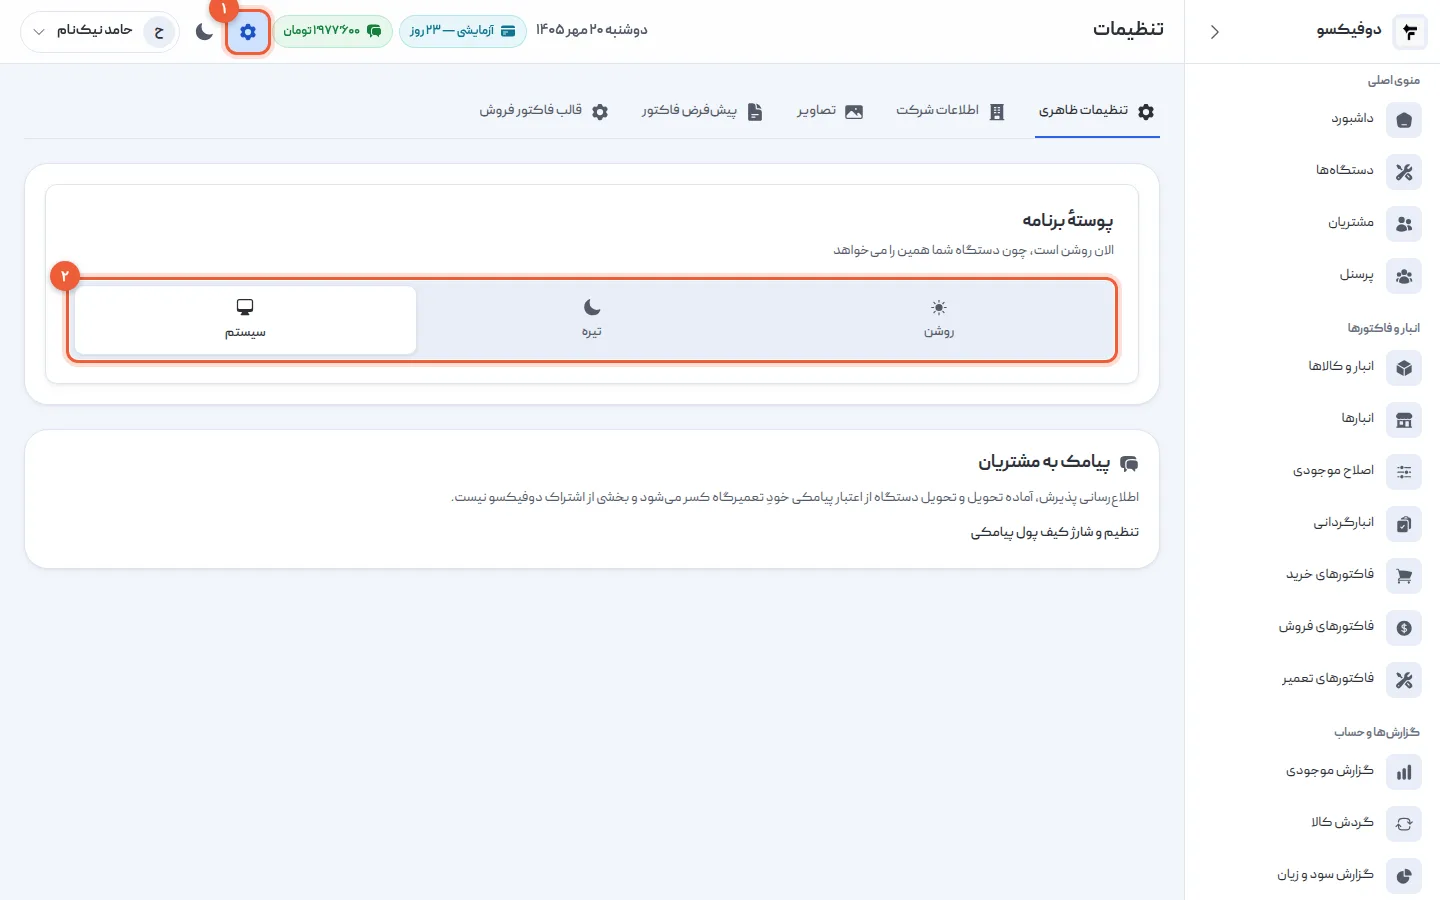
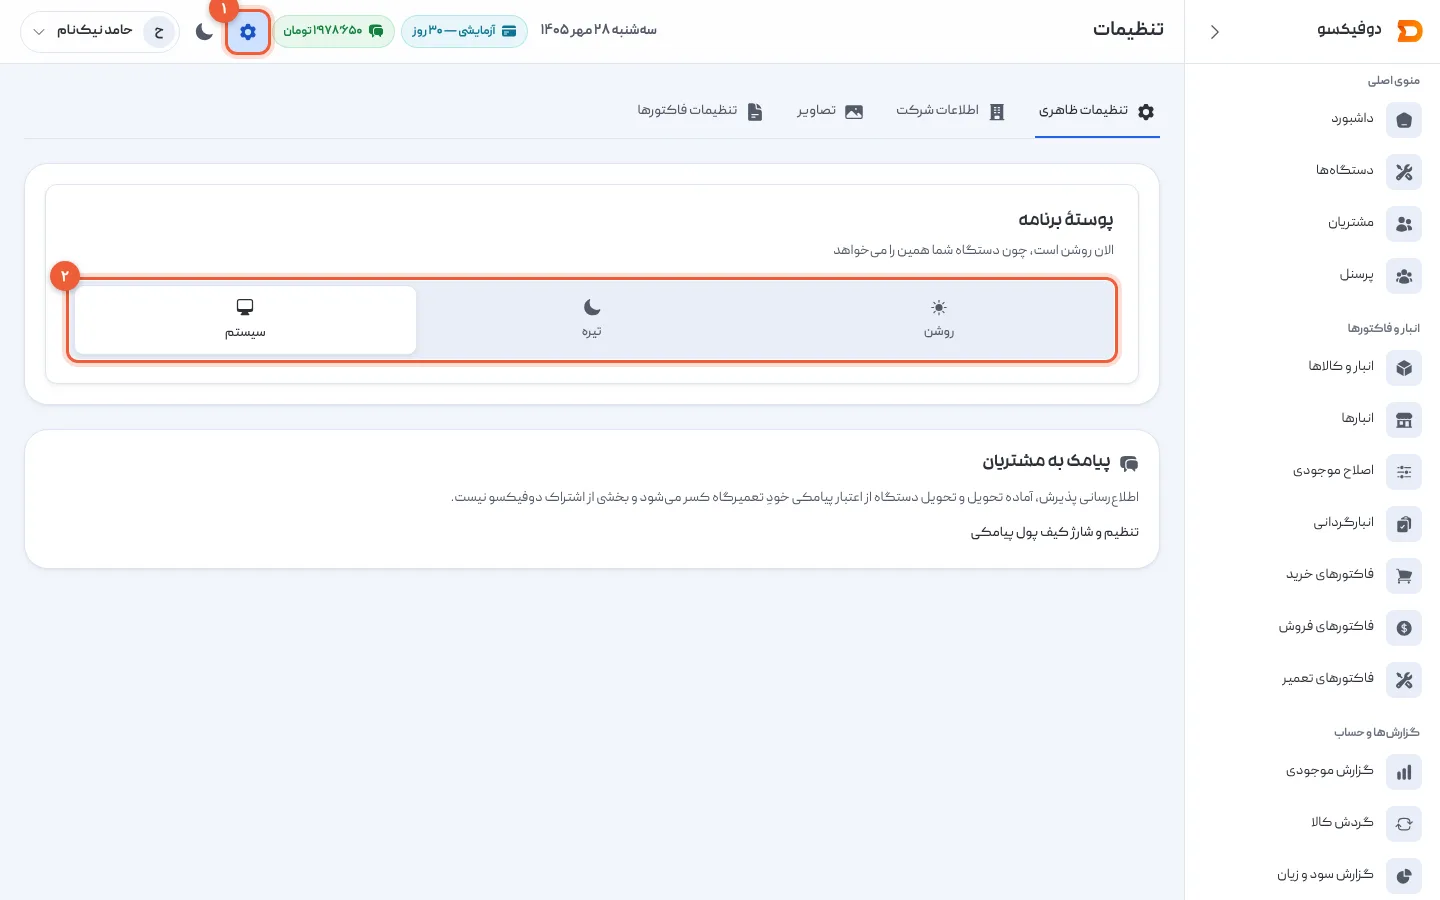
docs(academy): one «تنظیمات فاکتورها» tab, purchase invoices print (app 16.4)
The app merged «پیشفرض فاکتور» and «قالب فاکتور فروش» into one tab whose
print template shapes sale, repair and purchase invoices alike, with a
live preview, a paid/remaining switch and repair terms. The settings
tutorial's sections 4–5 are rewritten for it with new screenshots;
getting-started, sale-invoice, purchase-invoice, the course outline, the
video scripts and product-facts follow.

Claude-Session: https://claude.ai/code/session_01S2Y7uXe1787f739VSkuRcs

diff --git a/src/data/course.ts b/src/data/course.ts
@@ -43,7 +43,7 @@ export const CHAPTERS: CourseChapter[] = [
   {
     number: 2,
     title: "تنظیمات",
-    description: "اطلاعات شرکت، تصاویر، تنظیمات پیشفرض فاکتور و قالب فاکتور فروش.",
+    description: "اطلاعات شرکت، تصاویر، و تنظیمات فاکتورها: پیشفرضها و قالب چاپ.",
     tutorials: ["tutorials/settings"],
   },
   {

diff --git a/docs/academy/product-facts.md b/docs/academy/product-facts.md
@@ -251,18 +251,26 @@
 
 ## تنظیمات
 
-پنج تب. **«تنظیمات ظاهری»** (پوستهی روشن/تیره/سیستم، ذخیره در همان مرورگر) برای
-همه؛ چهار تب بقیه فقط برای **سوپر ادمین**:
+چهار تب. **«تنظیمات ظاهری»** (پوستهی روشن/تیره/سیستم، ذخیره در همان مرورگر) برای
+همه؛ سه تب بقیه فقط برای **سوپر ادمین**:
 
 - **اطلاعات شرکت:** نام، شماره تماس، آدرس، ایمیل، وبسایت.
 - **تصاویر:** لوگو، مهر، امضا (PNG/JPG تا ۵ مگابایت). بارگذاری **همان لحظه ذخیره**
   میشود.
-- **پیشفرض فاکتور:** نرخ مالیات پیشفرض، مدت گارانتی پیشفرض (۳ ماه)، متن ثابت
-  پایین فاکتور تعمیر، و **واحد پول** (تومان/ریال). فیلد «پیشوند شماره فاکتور» به
-  خواست رضا از تنظیمات **حذف** شد (۲۰ مهر؛ روی سرور اصلی از ۲۳ مهر)؛ شمارهها ثابتاند: REP/SAL/PUR. مالیات پیشفرض ۰ واقعاً ۰ است (اصلاح `??` روی سرور اصلی، ۱۸ مهر).
-- **قالب فاکتور فروش:** اندازه کاغذ **A4 / A5 / Thermal**، ۱۲ کلید نمایش (لوگو،
-  اطلاعات شرکت، ایمیل، وبسایت، اطلاعات دستگاه، شماره مشتری، تخفیف، مالیات، مهر،
-  امضا، گارانتی، تعمیرکار)، متن بالا و پایین. فقط روی فاکتور فروش.
+- **تنظیمات فاکتورها** (از فاز ۱۶ اپ، ۲۸ مهر ۱۴۰۵؛ پیش از آن دو تب «پیشفرض فاکتور» و
+  «قالب فاکتور فروش» بود):
+  - **پیشفرضها:** **واحد پول** (تومان/ریال)، نرخ مالیات پیشفرض، مدت گارانتی
+    پیشفرض (۳ ماه). فیلد «پیشوند شماره فاکتور» وجود ندارد؛ شمارهها ثابتاند:
+    REP/SAL/PUR. مالیات پیشفرض ۰ واقعاً ۰ است.
+  - **قالب چاپ — یکی برای هر سه فاکتور (فروش، تعمیر، خرید):** اندازه کاغذ **A4
+    عمودی / A5 افقی / رول حرارتی ۸۰ میلیمتری**؛ ۱۳ کلید نمایش: لوگو، آدرس و تلفن
+    کارگاه، ایمیل، وبسایت، تلفن مشتری، اطلاعات دستگاه (فروش و تعمیر)، نام تعمیرکار
+    (فقط تعمیر)، گارانتی (فقط تعمیر)، تخفیف و مالیات (فقط تعمیر)، **پرداختشده و
+    مانده**، جای امضا، جای مهر. ❌ قالب جدا برای هر نوع فاکتور **نیست**.
+  - **متنها:** متن بالای فاکتور و متن پایین فاکتور (هر سه نوع)، و **شرایط تعمیر**
+    (فقط فاکتور تعمیر).
+  - **پیشنمایش زنده** با دادهی نمونهی هر سه نوع، پیش از ذخیره، با نمایش اندازهی واقعی.
+- **فاکتور خرید هم چاپ میشود** (از فاز ۱۶؛ قبلش چاپ نداشت).
 - پیشنمایش چاپ فاکتور، **PDF** هم میدهد.
 
 ## پشتیبانی

diff --git a/docs/academy/videos/getting-started.md b/docs/academy/videos/getting-started.md
@@ -13,7 +13,7 @@
 | ۱ | ۰:۰۰–۰:۱۰ | داشبورد دمو، بیحرکت. | این داشبورد یک تعمیرگاه موبایل است در دوفیکسو. در این ویدیو از صفر تا همینجا میرسیم: ثبتنام، اطلاعات تعمیرگاه، تعمیرکارها و پیامک. |
 | ۲ | ۰:۱۰–۰:۳۰ | پنجرهی ثبتنام. «نام کارگاه»، «شماره موبایل» و «رمز عبور» را تایپ کنید. ماوس روی «ادامه» بماند، کلیک نکنید. | نام کارگاه، شماره موبایل و یک رمز. با «ادامه» یک کد پیامکی میآید، واردش میکنید و تمام. سی روز اول رایگان است، با همهی امکانات. |
 | ۳ | ۰:۳۰–۰:۵۵ | پنجرهی دمو. چرخدندهی «تنظیمات»، تب «اطلاعات شرکت»؛ ماوس روی نام، تلفن، آدرس. تب «تصاویر»، ماوس روی «لوگوی شرکت». | اول اطلاعات تعمیرگاه: از چرخدندهی تنظیمات، نام، تلفن و آدرس. در تب تصاویر، لوگو و اگر دارید مهر و امضا. همهی اینها روی هر فاکتوری که چاپ میکنید میآیند. |
-| ۴ | ۰:۵۵–۱:۱۰ | تب «پیشفرض فاکتور». ماوس روی «مدت گارانتی پیشفرض (ماه)»، بعد «متن ثابت پایین فاکتور». | در پیشفرض فاکتور، مدت گارانتی معمولتان را بنویسید. هر فاکتور تعمیر با همین مدت پر میشود و تاریخ پایان گارانتی خودش حساب و چاپ میشود. |
+| ۴ | ۰:۵۵–۱:۱۰ | تب «تنظیمات فاکتورها». ماوس روی «گارانتی (ماه)»، بعد «متن پایین فاکتور». | در تنظیمات فاکتورها، مدت گارانتی معمولتان را بنویسید. هر فاکتور تعمیر با همین مدت پر میشود و تاریخ پایان گارانتی خودش حساب و چاپ میشود. |
 | ۵ | ۱:۱۰–۱:۳۵ | «پرسنل» ← «افزودن پرسنل». نام، شماره و رمز را تایپ کنید، «نقش»: «تکنسین». ماوس روی «ایجاد پرسنل»، بعد «انصراف». | حالا تعمیرکارها: در پرسنل، افزودن پرسنل. شماره موبایل تعمیرکار نام کاربری اوست. نقش تکنسین یعنی فقط دستگاهها و مشتریها را میبیند — نه فاکتور، نه سود و زیان. |
 | ۶ | ۱:۳۵–۱:۵۵ | «کیف پول پیامکی». ماوس روی دکمهی سبز، بعد روی بخش شارژ. کلیک نکنید. | در کیف پول پیامکی، پیامک به مشتری را روشن کنید. دوفیکسو در سه لحظه پیامک میفرستد: پذیرش، آمادهی تحویل و تحویل. هزینهاش از همین کیف پول کم میشود، جدا از اشتراک. |
 | ۷ | ۱:۵۵–۲:۰۸ | «دستگاهها». ماوس روی «ثبت دستگاه جدید». | همهچیز آماده است. حالا اولین گوشی را از «ثبت دستگاه جدید» پذیرش کنید — آموزشش در ویدیوی بعدی است. |

diff --git a/docs/academy/videos/settings.md b/docs/academy/videos/settings.md
@@ -14,6 +14,6 @@
 | ۲ | ۰:۱۰–۰:۲۵ | چرخدندهی «تنظیمات»، تب «تنظیمات ظاهری». کلیک روی «تیره» و برگشت به «روشن». | تنظیمات از این چرخدنده باز میشود. اولین تب، پوسته است: روشن، تیره یا هماهنگ با گوشی. |
 | ۳ | ۰:۲۵–۰:۴۵ | تب «اطلاعات شرکت». ماوس روی نام، تلفن، آدرس. | در اطلاعات شرکت، نام و شماره و آدرس تعمیرگاه. نام از همینجا به پیامک مشتری و سربرگ فاکتور میرود. |
 | ۴ | ۰:۴۵–۱:۰۰ | تب «تصاویر». ماوس روی لوگو، مهر، امضا. | در تصاویر، لوگو و مهر و امضا. هر تصویر همان لحظه ذخیره میشود. |
-| ۵ | ۱:۰۰–۱:۲۵ | تب «پیشفرض فاکتور». ماوس روی مالیات، گارانتی، متن پایین. | در پیشفرض فاکتور، مالیات و گارانتی معمولتان. هر فاکتور تعمیر با همینها باز میشود و تاریخ پایان گارانتی خودش حساب میشود. اگر مالیات نمیگیرید، صفر بگذارید. |
-| ۶ | ۱:۲۵–۱:۴۵ | تب «قالب فاکتور فروش». ماوس روی اندازه کاغذ، چند کلید، متنها. | فاکتور فروش قالب خودش را دارد: A4، A5، یا رسید باریک برای چاپگر حرارتی. هر بخشی را که نمیخواهید خاموش کنید. |
+| ۵ | ۱:۰۰–۱:۲۵ | تب «تنظیمات فاکتورها». ماوس روی مالیات و گارانتی در «پیشفرضها». | در تنظیمات فاکتورها، اول مالیات و گارانتی معمولتان. هر فاکتور تعمیر با همینها باز میشود و تاریخ پایان گارانتی خودش حساب میشود. اگر مالیات نمیگیرید، صفر بگذارید. |
+| ۶ | ۱:۲۵–۱:۴۵ | همان تب، «قالب چاپ». اندازه کاغذ را عوض کنید، یک کلید را خاموش کنید و پیشنمایش کنارش را نشان دهید. | قالب چاپ برای هر سه فاکتور یکی است: A4، A5، یا رسید باریک برای چاپگر حرارتی. هر بخشی را که نمیخواهید خاموش کنید؛ پیشنمایش همان لحظه عوض میشود. |
 | ۷ | ۱:۴۵–۲:۰۰ | برگشت به پیشنمایش چاپ؛ ماوس روی «PDF». قاب پایانی. | نتیجه روی هر فاکتور است — چاپی یا PDF برای مشتری. |
